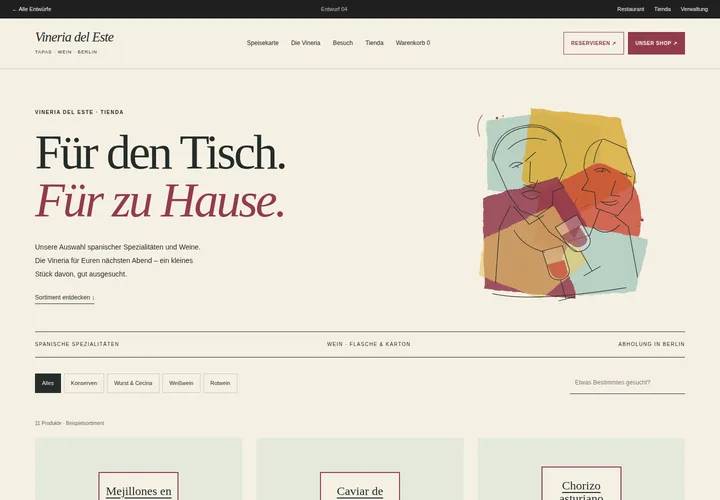
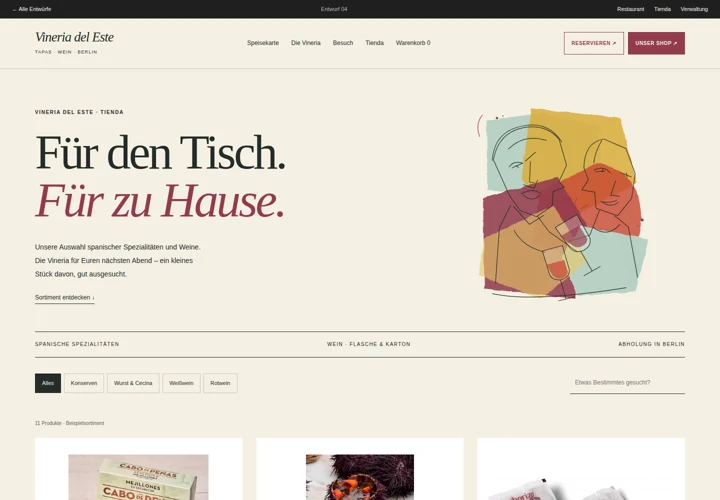
Update model 08 and the actual-product previews in all shop designs [skip ci]

Changed region(s): [[0.0306, 0.87, 0.9778, 1.0], [0.7944, 0.06, 0.825, 0.09]]

diff --git a/site/entwuerfe/v08/shop/index.html b/site/entwuerfe/v08/shop/index.html
@@ -1,3 +1,3 @@
 <!DOCTYPE html>
 
-<html lang="de"><head><meta charset="utf-8"/><meta content="width=device-width,initial-scale=1" name="viewport"/><meta content="noindex,nofollow,noarchive" name="robots"/><meta content="Spanische Konserven, Chorizo, Cecina und Weine. Tienda der Vineria del Este in Berlin. Designvorschau mit Beispielpreisen." name="description"/><meta content="strict-origin-when-cross-origin" name="referrer"/><meta content="Spanische Spezialitäten &amp; Wein · Vineria del Este Tienda" property="og:title"/><meta content="Designvorschau · Restaurant und Tienda · Keine aktive Verkaufsseite" property="og:description"/><title>Spanische Spezialitäten &amp; Wein · Vineria del Este Tienda · Modell 08 · Collage &amp; Papier</title><link href="../../../assets/site.css" rel="stylesheet"/><script>window.VDE={"root": "../", "home": "../index.html", "shop": "index.html", "theme": "", "products": [{"id": "mejillones", "name": "Mejillones en escabeche", "category": "conservas", "brand": "Cabo de Peñas", "description": "Miesmuscheln in Escabeche mit Apfelessig und Olivenöl. Die gezeigte Dose stammt aus Galicien.", "pack": "111 g", "amount": 111, "unit": "g", "price": 1290, "case": 0, "casePrice": 0, "pickup": false, "source": "https://www.agromar.es/tienda/", "note": "WEICHTIERE. Zutaten und Abtropfgewicht sind vor Verkauf vom Etikett zu übernehmen.", "image": "assets/products/mejillones.webp", "imageAlt": "Cabo de Peñas · Mejillones en escabeche · Originalverpackung", "imageSource": "https://www.fetasoller.com/es/mallorca-shop.php/tienda/catalogo/charcuteria_y_queso/marinos/cabo_de_penas_mejillones_cologicos", "imageRights": "review_only_pending_clearance"}, {"id": "oricios", "name": "Caviar de oricios", "category": "conservas", "brand": "Agromar", "description": "Seeigelrogen aus Asturien. Eine besondere kleine Konserve zum Teilen.", "pack": "68 g", "amount": 68, "unit": "g", "price": 2690, "case": 0, "casePrice": 0, "pickup": false, "source": "https://www.agromar.es/producto/caviar-de-oricios-70/", "note": "Vollständige Kennzeichnung, Zutaten und Lagerung vor Verkauf bestätigen.", "image": "assets/products/oricios.webp", "imageAlt": "Agromar · Caviar de oricios · Originaldose", "imageSource": "https://laespanolameats.com/es/conservas-de-pescado/caviar-de-oricios-.html", "imageRights": "review_only_pending_clearance"}, {"id": "chorizo", "name": "Chorizo asturiano extra", "category": "embutidos", "brand": "Embutidos Vallina", "description": "Über Eichenholz geräucherte Schweinewurst. Zum Garen, nicht als verzehrfertiger Aufschnitt.", "pack": "250 g", "amount": 250, "unit": "g", "price": 690, "case": 0, "casePrice": 0, "pickup": true, "source": "https://puxa.es/chorizo-extra-asturiano/35-chorizo-extra-paq-250-g.html", "note": "Gekühlt bei 0–5 °C lagern und vor Verzehr garen. Im Entwurf nur Abholung.", "image": "assets/products/chorizo.webp", "imageAlt": "Embutidos Vallina · Chorizo asturiano extra · Originalverpackung", "imageSource": "https://puxa.es/chorizo-extra-asturiano/35-chorizo-extra-paq-250-g.html", "imageRights": "review_only_pending_clearance"}, {"id": "cecina", "name": "Cecina loncheada", "category": "embutidos", "brand": "Cecinas Pablo", "description": "Luftgetrocknetes Rindfleisch, fein geschnitten und in einer kleinen Portion verpackt.", "pack": "100 g", "amount": 100, "unit": "g", "price": 890, "case": 0, "casePrice": 0, "pickup": true, "source": "https://cecinaspablo.com/producto/loncheado-de-cecina-curada-vacuno-100-gr/", "note": "Im Entwurf nur Abholung; konkrete Lagerung und vollständiges Etikett noch bestätigen.", "image": "assets/products/cecina.webp", "imageAlt": "Cecinas Pablo · Cecina loncheada · Originalverpackung", "imageSource": "https://www.montegomez.com/tienda-online/cecina-pablo/", "imageRights": "review_only_pending_clearance"}, {"id": "bujanda-blanco", "name": "Bujanda Blanco", "year": "2019", "category": "weisswein", "brand": "D.O. Rioja", "description": "Viura. Aus der bestehenden Weinkarte der Vinería.", "pack": "0,75 l", "amount": 750, "unit": "ml", "price": 1290, "case": 6, "casePrice": 7350, "pickup": false, "image": "assets/products/bujanda-blanco.webp", "imageAlt": "Viña Bujanda Viura · Originalflasche", "imageSource": "https://familiamartinezbujanda.com/tienda/vinos/blancos-y-dulces/vina-bujanda-viura/", "imageRights": "review_only_pending_clearance"}, {"id": "blanco-nieva", "name": "Blanco Nieva Sauvignon Blanc", "year": "2019", "category": "weisswein", "brand": "D.O. Rueda", "description": "100 % Sauvignon Blanc. Aus der bestehenden Weinkarte.", "pack": "0,75 l", "amount": 750, "unit": "ml", "price": 1690, "case": 6, "casePrice": 9630, "pickup": false, "image": "assets/products/blanco-nieva.webp", "imageAlt": "Blanco Nieva Sauvignon Blanc · Originalflasche; Jahrgang der Abbildung kann abweichen", "imageSource": "https://martue.com/producto/blanco-nieva-sauvignon-blanc-2025/", "imageRights": "review_only_pending_clearance"}, {"id": "vanidade", "name": "Vanidade", "year": "2019", "category": "weisswein", "brand": "D.O. Rías Baixas", "description": "100 % Albariño. Aus der bestehenden Weinkarte.", "pack": "0,75 l", "amount": 750, "unit": "ml", "price": 1990, "case": 6, "casePrice": 11340, "pickup": false, "image": "assets/products/vanidade.webp", "imageAlt": "Vanidade Albariño · Originalflasche", "imageSource": "https://vinaalmirante.com/en/vinos/vanidade-en/", "imageRights": "review_only_pending_clearance"}, {"id": "egiarte-crianza", "name": "Egiarte Crianza", "year": "2016", "category": "rotwein", "brand": "D.O. Navarra", "description": "Tempranillo, Merlot und Cabernet Sauvignon. 12 Monate Barrique.", "pack": "0,75 l", "amount": 750, "unit": "ml", "price": 1590, "case": 6, "casePrice": 9060, "pickup": false, "image": "assets/products/egiarte-crianza.webp", "imageAlt": "Egiarte Crianza BIO · Produktfoto mit Originalflasche; Jahrgang kann abweichen", "imageSource": "https://gaztaburua.com/product/egiarte-crianza-bio/", "imageRights": "review_only_pending_clearance"}, {"id": "lezaun-tempranillo", "name": "Lezaun Tempranillo", "year": "2019", "category": "rotwein", "brand": "D.O. Navarra", "description": "100 % Tempranillo. Aus der bestehenden Weinkarte.", "pack": "0,75 l", "amount": 750, "unit": "ml", "price": 1390, "case": 6, "casePrice": 7920, "pickup": false, "image": "assets/products/lezaun-tempranillo.webp", "imageAlt": "Lezaun Tempranillo · Produktfoto mit Originalflasche; Jahrgang kann abweichen", "imageSource": "https://gaztaburua.com/product/lezaun-tempranillo/", "imageRights": "review_only_pending_clearance"}, {"id": "terrae-finca-vasallo", "name": "Terrae Finca Vasallo", "year": "2019", "category": "rotwein", "brand": "Bajo Aragón", "description": "100 % Garnacha. Aus der bestehenden Weinkarte.", "pack": "0,75 l", "amount": 750, "unit": "ml", "price": 1490, "case": 6, "casePrice": 8490, "pickup": false, "image": "assets/products/terrae-finca-vasallo.webp", "imageAlt": "Terrae Finca Vasallo · Produktaufnahme des Weinguts", "imageSource": "https://www.bodegastempore.com/en/news/new-gold-medal-for-our-organic-wine-terrae-finca-vasallo-garnacha-100/", "imageRights": "review_only_pending_clearance"}, {"id": "nuestro", "name": "Nuestro", "year": "2018", "category": "rotwein", "brand": "D.O. Ribera del Duero", "description": "100 % Tempranillo. 8 Monate in französischen Eichenfässern.", "pack": "0,75 l", "amount": 750, "unit": "ml", "price": 2490, "case": 6, "casePrice": 14190, "pickup": false, "image": "assets/products/nuestro.webp", "imageAlt": "Nuestro 8 meses · Originalflasche", "imageSource": "https://www.vinetibo.es/products/nuestro-8-meses", "imageRights": "review_only_pending_clearance"}], "mode": "review"};</script><script defer="" src="../../../assets/site.js"></script><link href="../../../assets/polish.css" rel="stylesheet"/><script defer="" src="../../../assets/polish.js"></script><link data-proposal-chrome="" href="../../../assets/proposal-chrome.css" rel="stylesheet"/><link data-product-photos="" href="../../../assets/product-photos.css" rel="stylesheet"/><link href="../../../assets/model08.css" rel="stylesheet"/><script defer="" src="../../../assets/model08.js"></script></head><body class="model08"><div class="proposal-nav"><a href="../../../index.html">← Alle Entwürfe</a><span>Modell 08</span><nav aria-label="Entwurfsansichten"><a href="../index.html">Restaurant</a><a href="index.html">Tienda</a><a href="../../../verwaltung/index.html">Verwaltung</a></nav></div><a class="skip" href="#main">Zum Inhalt</a><header class="header"><div class="wrap nav"><a class="brand" href="../index.html">Vineria del Este<small>Tapas · Wein · Berlin</small></a><nav aria-label="Hauptnavigation" class="navigation" id="navigation"><a href="../index.html#speisekarte">Speisekarte</a><a class="optional" href="../index.html#vineria">Die Vineria</a><a class="optional" href="../index.html#besuch">Besuch</a><a aria-current="page" href="index.html">Tienda</a><a href="../warenkorb/index.html">Warenkorb <span data-cart-count="">0</span></a></nav><div class="nav-actions"><a class="btn outline" href="https://vineriaytapas.de/#tebi-reservations" rel="noopener" target="_blank">Reservieren ↗</a><a class="btn" href="index.html">Unser Shop ↗</a></div><button aria-controls="navigation" aria-expanded="false" class="mobile-menu">Menü</button></div></header><main id="main"><section class="collage-hero shop-hero wrap"><div aria-label="Weine aus unserem Sortiment" class="bottle-stack"><img alt="Viña Bujanda Viura" src="../../../assets/products/bujanda-blanco.webp"/><img alt="Vanidade Albariño" src="../../../assets/products/vanidade.webp"/><img alt="Egiarte Crianza" src="../../../assets/products/egiarte-crianza.webp"/></div><div class="hero-copy"><p class="eyebrow">VINERIA DEL ESTE · TIENDA<br/>PRODUCTOS ESPAÑOLES</p><h1>Für den Tisch.<br/>Für zu Hause.</h1><p>Die Weine, über die wir gern reden. Die kleinen Dosen, die man gemeinsam öffnet. Unsere Auswahl für Euren nächsten Abend.</p><div class="hero-actions"><a class="btn" href="#sortiment">Auswahl entdecken ↓</a><a class="btn outline" href="../index.html">Zum Restaurant ↗</a></div><span class="handnote">Ein kleines Stück Spanien.</span></div><aside class="shop-slip"><div class="slip-paper"><p class="eyebrow">UNSERE AUSWAHL</p><h2>Mitbringen.<br/>Aufmachen.<br/>Zusammen.</h2><p>Weine, Konserven und spanische Spezialitäten. Flasche oder Karton: Ihr habt die Wahl.</p><div class="receipt-tag">ABHOLEN IN DER VINERIA<br/>VERSAND IN DEUTSCHLAND</div><p>Sortiment und Preise sind Beispiele. Noch kein Verkauf.</p></div></aside></section><div class="wrap strip"><span>Spanische Spezialitäten</span><span>Wein · Flasche &amp; Karton</span><span class="optional">Abholung in Berlin</span></div><section class="wrap" id="sortiment"><div class="toolbar"><div aria-label="Produktkategorie" class="filters"><button aria-pressed="true" data-filter="all">Alles</button><button aria-pressed="false" data-filter="conservas">Konserven</button><button aria-pressed="false" data-filter="embutidos">Wurst &amp; Cecina</button><button aria-pressed="false" data-filter="weisswein">Weißwein</button><button aria-pressed="false" data-filter="rotwein">Rotwein</button></div><input aria-label="Produkt suchen" class="search" data-search="" placeholder="Etwas Bestimmtes gesucht?" type="search"/></div><p class="note" data-results="">11 Produkte · Beispielsortiment</p><div class="products"><article class="product-card" data-category="conservas" data-product="mejillones"><a aria-label="Mejillones en escabeche" href="mejillones/index.html"><div class="product-art real-product-photo photo-tin"><img alt="Cabo de Peñas · Mejillones en escabeche · Originalverpackung" data-real-product="mejillones" decoding="async" height="747" loading="eager" src="../../../assets/products/mejillones.webp" width="747"/></div></a><div class="eyebrow">Cabo de Peñas · 111 g</div><h2><a href="mejillones/index.html">Mejillones en escabeche</a></h2><p>Miesmuscheln in Escabeche mit Apfelessig und Olivenöl. Die gezeigte Dose stammt aus Galicien.</p><div class="buy-row"><span class="price" data-price="">12,90 €</span><span class="note">Beispielpreis</span></div><div class="unit" data-unit="">116,22 €/kg · zzgl. Versand</div><select aria-label="Format für Mejillones en escabeche" data-variant=""><option value="single">111 g · 12,90 €</option></select><button class="btn" data-add="mejillones">In den Warenkorb +</button></article><article class="product-card" data-category="conservas" data-product="oricios"><a aria-label="Caviar de oricios" href="oricios/index.html"><div class="product-art real-product-photo photo-tin"><img alt="Agromar · Caviar de oricios · Originaldose" data-real-product="oricios" decoding="async" height="1034" loading="eager" src="../../../assets/products/oricios.webp" width="800"/></div></a><div class="eyebrow">Agromar · 68 g</div><h2><a href="oricios/index.html">Caviar de oricios</a></h2><p>Seeigelrogen aus Asturien. Eine besondere kleine Konserve zum Teilen.</p><div class="buy-row"><span class="price" data-price="">26,90 €</span><span class="note">Beispielpreis</span></div><div class="unit" data-unit="">395,59 €/kg · zzgl. Versand</div><select aria-label="Format für Caviar de oricios" data-variant=""><option value="single">68 g · 26,90 €</option></select><button class="btn" data-add="oricios">In den Warenkorb +</button></article><article class="product-card" data-category="embutidos" data-product="chorizo"><a aria-label="Chorizo asturiano extra" href="chorizo/index.html"><div class="product-art real-product-photo photo-pack"><img alt="Embutidos Vallina · Chorizo asturiano extra · Originalverpackung" data-real-product="chorizo" decoding="async" height="293" loading="eager" src="../../../assets/products/chorizo.webp" width="560"/></div></a><div class="eyebrow">Embutidos Vallina · 250 g</div><h2><a href="chorizo/index.html">Chorizo asturiano extra</a></h2><p>Über Eichenholz geräucherte Schweinewurst. Zum Garen, nicht als verzehrfertiger Aufschnitt.</p><div class="buy-row"><span class="price" data-price="">6,90 €</span><span class="note">Nur Abholung</span></div><div class="unit" data-unit="">27,60 €/kg · zzgl. Versand</div><select aria-label="Format für Chorizo asturiano extra" data-variant=""><option value="single">250 g · 6,90 €</option></select><button class="btn" data-add="chorizo">In den Warenkorb +</button></article><article class="product-card" data-category="embutidos" data-product="cecina"><a aria-label="Cecina loncheada" href="cecina/index.html"><div class="product-art real-product-photo photo-pack"><img alt="Cecinas Pablo · Cecina loncheada · Originalverpackung" data-real-product="cecina" decoding="async" height="443" loading="eager" src="../../../assets/products/cecina.webp" width="600"/></div></a><div class="eyebrow">Cecinas Pablo · 100 g</div><h2><a href="cecina/index.html">Cecina loncheada</a></h2><p>Luftgetrocknetes Rindfleisch, fein geschnitten und in einer kleinen Portion verpackt.</p><div class="buy-row"><span class="price" data-price="">8,90 €</span><span class="note">Nur Abholung</span></div><div class="unit" data-unit="">89,00 €/kg · zzgl. Versand</div><select aria-label="Format für Cecina loncheada" data-variant=""><option value="single">100 g · 8,90 €</option></select><button class="btn" data-add="cecina">In den Warenkorb +</button></article><article class="product-card" data-category="weisswein" data-product="bujanda-blanco"><a aria-label="Bujanda Blanco" href="bujanda-blanco/index.html"><div class="product-art real-product-photo photo-wine"><img alt="Viña Bujanda Viura · Originalflasche" data-real-product="bujanda-blanco" decoding="async" height="584" loading="eager" src="../../../assets/products/bujanda-blanco.webp" width="158"/></div></a><div class="eyebrow">D.O. Rioja · 0,75 l</div><h2><a href="bujanda-blanco/index.html">Bujanda Blanco</a></h2><p>Viura. Aus der bestehenden Weinkarte der Vinería.</p><div class="buy-row"><span class="price" data-price="">12,90 €</span><span class="note">Beispielpreis</span></div><div class="unit" data-unit="">17,20 €/l · zzgl. Versand</div><select aria-label="Format für Bujanda Blanco" data-variant=""><option value="single">0,75 l · 12,90 €</option><option value="case">6 × 0,75 l · 73,50 €</option></select><button class="btn" data-add="bujanda-blanco">In den Warenkorb +</button></article><article class="product-card" data-category="weisswein" data-product="blanco-nieva"><a aria-label="Blanco Nieva Sauvignon Blanc" href="blanco-nieva/index.html"><div class="product-art real-product-photo photo-wine"><img alt="Blanco Nieva Sauvignon Blanc · Originalflasche; Jahrgang der Abbildung kann abweichen" data-real-product="blanco-nieva" decoding="async" height="1100" loading="eager" src="../../../assets/products/blanco-nieva.webp" width="261"/></div></a><div class="eyebrow">D.O. Rueda · 0,75 l</div><h2><a href="blanco-nieva/index.html">Blanco Nieva Sauvignon Blanc</a></h2><p>100 % Sauvignon Blanc. Aus der bestehenden Weinkarte.</p><div class="buy-row"><span class="price" data-price="">16,90 €</span><span class="note">Beispielpreis</span></div><div class="unit" data-unit="">22,53 €/l · zzgl. Versand</div><select aria-label="Format für Blanco Nieva Sauvignon Blanc" data-variant=""><option value="single">0,75 l · 16,90 €</option><option value="case">6 × 0,75 l · 96,30 €</option></select><button class="btn" data-add="blanco-nieva">In den Warenkorb +</button></article><article class="product-card" data-category="weisswein" data-product="vanidade"><a aria-label="Vanidade" href="vanidade/index.html"><div class="product-art real-product-photo photo-wine"><img alt="Vanidade Albariño · Originalflasche" data-real-product="vanidade" decoding="async" height="595" loading="eager" src="../../../assets/products/vanidade.webp" width="189"/></div></a><div class="eyebrow">D.O. Rías Baixas · 0,75 l</div><h2><a href="vanidade/index.html">Vanidade</a></h2><p>100 % Albariño. Aus der bestehenden Weinkarte.</p><div class="buy-row"><span class="price" data-price="">19,90 €</span><span class="note">Beispielpreis</span></div><div class="unit" data-unit="">26,53 €/l · zzgl. Versand</div><select aria-label="Format für Vanidade" data-variant=""><option value="single">0,75 l · 19,90 €</option><option value="case">6 × 0,75 l · 113,40 €</option></select><button class="btn" data-add="vanidade">In den Warenkorb +</button></article><article class="product-card" data-category="rotwein" data-product="egiarte-crianza"><a aria-label="Egiarte Crianza" href="egiarte-crianza/index.html"><div class="product-art real-product-photo photo-wine"><img alt="Egiarte Crianza BIO · Produktfoto mit Originalflasche; Jahrgang kann abweichen" data-real-product="egiarte-crianza" decoding="async" height="384" loading="eager" src="../../../assets/products/egiarte-crianza.webp" width="600"/></div></a><div class="eyebrow">D.O. Navarra · 0,75 l</div><h2><a href="egiarte-crianza/index.html">Egiarte Crianza</a></h2><p>Tempranillo, Merlot und Cabernet Sauvignon. 12 Monate Barrique.</p><div class="buy-row"><span class="price" data-price="">15,90 €</span><span class="note">Beispielpreis</span></div><div class="unit" data-unit="">21,20 €/l · zzgl. Versand</div><select aria-label="Format für Egiarte Crianza" data-variant=""><option value="single">0,75 l · 15,90 €</option><option value="case">6 × 0,75 l · 90,60 €</option></select><button class="btn" data-add="egiarte-crianza">In den Warenkorb +</button></article><article class="product-card" data-category="rotwein" data-product="lezaun-tempranillo"><a aria-label="Lezaun Tempranillo" href="lezaun-tempranillo/index.html"><div class="product-art real-product-photo photo-wine"><img alt="Lezaun Tempranillo · Produktfoto mit Originalflasche; Jahrgang kann abweichen" data-real-product="lezaun-tempranillo" decoding="async" height="384" loading="eager" src="../../../assets/products/lezaun-tempranillo.webp" width="600"/></div></a><div class="eyebrow">D.O. Navarra · 0,75 l</div><h2><a href="lezaun-tempranillo/index.html">Lezaun Tempranillo</a></h2><p>100 % Tempranillo. Aus der bestehenden Weinkarte.</p><div class="buy-row"><span class="price" data-price="">13,90 €</span><span class="note">Beispielpreis</span></div><div class="unit" data-unit="">18,53 €/l · zzgl. Versand</div><select aria-label="Format für Lezaun Tempranillo" data-variant=""><option value="single">0,75 l · 13,90 €</option><option value="case">6 × 0,75 l · 79,20 €</option></select><button class="btn" data-add="lezaun-tempranillo">In den Warenkorb +</button></article><article class="product-card" data-category="rotwein" data-product="terrae-finca-vasallo"><a aria-label="Terrae Finca Vasallo" href="terrae-finca-vasallo/index.html"><div class="product-art real-product-photo photo-wine"><img alt="Terrae Finca Vasallo · Produktaufnahme des Weinguts" data-real-product="terrae-finca-vasallo" decoding="async" height="626" loading="eager" src="../../../assets/products/terrae-finca-vasallo.webp" width="626"/></div></a><div class="eyebrow">Bajo Aragón · 0,75 l</div><h2><a href="terrae-finca-vasallo/index.html">Terrae Finca Vasallo</a></h2><p>100 % Garnacha. Aus der bestehenden Weinkarte.</p><div class="buy-row"><span class="price" data-price="">14,90 €</span><span class="note">Beispielpreis</span></div><div class="unit" data-unit="">19,87 €/l · zzgl. Versand</div><select aria-label="Format für Terrae Finca Vasallo" data-variant=""><option value="single">0,75 l · 14,90 €</option><option value="case">6 × 0,75 l · 84,90 €</option></select><button class="btn" data-add="terrae-finca-vasallo">In den Warenkorb +</button></article><article class="product-card" data-category="rotwein" data-product="nuestro"><a aria-label="Nuestro" href="nuestro/index.html"><div class="product-art real-product-photo photo-wine"><img alt="Nuestro 8 meses · Originalflasche" data-real-product="nuestro" decoding="async" height="480" loading="eager" src="../../../assets/products/nuestro.webp" width="135"/></div></a><div class="eyebrow">D.O. Ribera del Duero · 0,75 l</div><h2><a href="nuestro/index.html">Nuestro</a></h2><p>100 % Tempranillo. 8 Monate in französischen Eichenfässern.</p><div class="buy-row"><span class="price" data-price="">24,90 €</span><span class="note">Beispielpreis</span></div><div class="unit" data-unit="">33,20 €/l · zzgl. Versand</div><select aria-label="Format für Nuestro" data-variant=""><option value="single">0,75 l · 24,90 €</option><option value="case">6 × 0,75 l · 141,90 €</option></select><button class="btn" data-add="nuestro">In den Warenkorb +</button></article></div><noscript><p class="nojs">Alle Produkte sind sichtbar. Für den Testwarenkorb bitte JavaScript aktivieren.</p></noscript><p class="notice">Designvorschau: alle Preise, Jahrgänge und Kartongrößen sind Beispiele. Produktgrafiken sind keine Fotos der verkauften Packungen. Produktkennzeichnung, Lagerung und Verfügbarkeit müssen vor Freigabe vollständig bestätigt werden.</p></section></main><footer class="footer"><div class="wrap"><div class="footer-top"><div><div class="footer-word" lang="es">Hasta pronto.</div><p class="note">Vineria del Este · Bänschstraße 41 · Berlin</p></div><nav aria-label="Service" class="footer-links"><a href="index.html">Unser Shop</a><a href="../service/index.html#versand">Versand &amp; Abholung</a><a href="../service/index.html#widerruf">Widerruf &amp; Retouren</a><a href="../service/index.html#agb">AGB</a><a href="../service/index.html#datenschutz">Datenschutz</a><a href="../service/index.html#impressum">Impressum</a><a href="https://www.instagram.com/vineria.del.este/" rel="noopener" target="_blank">Instagram ↗</a><a href="../../../verwaltung/index.html">Verwaltung</a></nav></div><div class="footer-bottom"><span>Modell 08 · Collage &amp; Papier · Designvorschau</span><a href="../../../index.html#herkunft">Bildnachweise &amp; Projektstand</a></div></div></footer><div class="toast" hidden="" id="toast" role="status"></div></body></html>
+<html lang="de"><head><meta charset="utf-8"/><meta content="width=device-width,initial-scale=1" name="viewport"/><meta content="noindex,nofollow,noarchive" name="robots"/><meta content="Spanische Konserven, Chorizo, Cecina und Weine. Tienda der Vineria del Este in Berlin. Designvorschau mit Beispielpreisen." name="description"/><meta content="strict-origin-when-cross-origin" name="referrer"/><meta content="Spanische Spezialitäten &amp; Wein · Vineria del Este Tienda" property="og:title"/><meta content="Designvorschau · Restaurant und Tienda · Keine aktive Verkaufsseite" property="og:description"/><title>Spanische Spezialitäten &amp; Wein · Vineria del Este Tienda · Modell 08 · Collage &amp; Papier</title><link href="../../../assets/site.css" rel="stylesheet"/><script>window.VDE={"root": "../", "home": "../index.html", "shop": "index.html", "theme": "", "products": [{"id": "mejillones", "name": "Mejillones en escabeche", "category": "conservas", "brand": "Cabo de Peñas", "description": "Miesmuscheln in Escabeche mit Apfelessig und Olivenöl. Die gezeigte Dose stammt aus Galicien.", "pack": "111 g", "amount": 111, "unit": "g", "price": 1290, "case": 0, "casePrice": 0, "pickup": false, "source": "https://www.agromar.es/tienda/", "note": "WEICHTIERE. Zutaten und Abtropfgewicht sind vor Verkauf vom Etikett zu übernehmen.", "image": "assets/products/mejillones.webp", "imageAlt": "Cabo de Peñas · Mejillones en escabeche · Originalverpackung", "imageSource": "https://www.fetasoller.com/es/mallorca-shop.php/tienda/catalogo/charcuteria_y_queso/marinos/cabo_de_penas_mejillones_cologicos", "imageRights": "review_only_pending_clearance"}, {"id": "oricios", "name": "Caviar de oricios", "category": "conservas", "brand": "Agromar", "description": "Seeigelrogen aus Asturien. Eine besondere kleine Konserve zum Teilen.", "pack": "68 g", "amount": 68, "unit": "g", "price": 2690, "case": 0, "casePrice": 0, "pickup": false, "source": "https://www.agromar.es/producto/caviar-de-oricios-70/", "note": "Vollständige Kennzeichnung, Zutaten und Lagerung vor Verkauf bestätigen.", "image": "assets/products/oricios.webp", "imageAlt": "Agromar · Caviar de oricios · Originaldose", "imageSource": "https://laespanolameats.com/es/conservas-de-pescado/caviar-de-oricios-.html", "imageRights": "review_only_pending_clearance"}, {"id": "chorizo", "name": "Chorizo asturiano extra", "category": "embutidos", "brand": "Embutidos Vallina", "description": "Über Eichenholz geräucherte Schweinewurst. Zum Garen, nicht als verzehrfertiger Aufschnitt.", "pack": "250 g", "amount": 250, "unit": "g", "price": 690, "case": 0, "casePrice": 0, "pickup": true, "source": "https://puxa.es/chorizo-extra-asturiano/35-chorizo-extra-paq-250-g.html", "note": "Gekühlt bei 0–5 °C lagern und vor Verzehr garen. Im Entwurf nur Abholung.", "image": "assets/products/chorizo.webp", "imageAlt": "Embutidos Vallina · Chorizo asturiano extra · Originalverpackung", "imageSource": "https://puxa.es/chorizo-extra-asturiano/35-chorizo-extra-paq-250-g.html", "imageRights": "review_only_pending_clearance"}, {"id": "cecina", "name": "Cecina loncheada", "category": "embutidos", "brand": "Cecinas Pablo", "description": "Luftgetrocknetes Rindfleisch, fein geschnitten und in einer kleinen Portion verpackt.", "pack": "100 g", "amount": 100, "unit": "g", "price": 890, "case": 0, "casePrice": 0, "pickup": true, "source": "https://cecinaspablo.com/producto/loncheado-de-cecina-curada-vacuno-100-gr/", "note": "Im Entwurf nur Abholung; konkrete Lagerung und vollständiges Etikett noch bestätigen.", "image": "assets/products/cecina.webp", "imageAlt": "Cecinas Pablo · Cecina loncheada · Originalverpackung", "imageSource": "https://www.montegomez.com/tienda-online/cecina-pablo/", "imageRights": "review_only_pending_clearance"}, {"id": "bujanda-blanco", "name": "Bujanda Blanco", "year": "2019", "category": "weisswein", "brand": "D.O. Rioja", "description": "Viura. Aus der bestehenden Weinkarte der Vinería.", "pack": "0,75 l", "amount": 750, "unit": "ml", "price": 1290, "case": 6, "casePrice": 7350, "pickup": false, "image": "assets/products/bujanda-blanco.webp", "imageAlt": "Viña Bujanda Viura · Originalflasche", "imageSource": "https://familiamartinezbujanda.com/tienda/vinos/blancos-y-dulces/vina-bujanda-viura/", "imageRights": "review_only_pending_clearance"}, {"id": "blanco-nieva", "name": "Blanco Nieva Sauvignon Blanc", "year": "2019", "category": "weisswein", "brand": "D.O. Rueda", "description": "100 % Sauvignon Blanc. Aus der bestehenden Weinkarte.", "pack": "0,75 l", "amount": 750, "unit": "ml", "price": 1690, "case": 6, "casePrice": 9630, "pickup": false, "image": "assets/products/blanco-nieva.webp", "imageAlt": "Blanco Nieva Sauvignon Blanc · Originalflasche; Jahrgang der Abbildung kann abweichen", "imageSource": "https://martue.com/producto/blanco-nieva-sauvignon-blanc-2025/", "imageRights": "review_only_pending_clearance"}, {"id": "vanidade", "name": "Vanidade", "year": "2019", "category": "weisswein", "brand": "D.O. Rías Baixas", "description": "100 % Albariño. Aus der bestehenden Weinkarte.", "pack": "0,75 l", "amount": 750, "unit": "ml", "price": 1990, "case": 6, "casePrice": 11340, "pickup": false, "image": "assets/products/vanidade.webp", "imageAlt": "Vanidade Albariño · Originalflasche", "imageSource": "https://vinaalmirante.com/en/vinos/vanidade-en/", "imageRights": "review_only_pending_clearance"}, {"id": "egiarte-crianza", "name": "Egiarte Crianza", "year": "2016", "category": "rotwein", "brand": "D.O. Navarra", "description": "Tempranillo, Merlot und Cabernet Sauvignon. 12 Monate Barrique.", "pack": "0,75 l", "amount": 750, "unit": "ml", "price": 1590, "case": 6, "casePrice": 9060, "pickup": false, "image": "assets/products/egiarte-crianza.webp", "imageAlt": "Egiarte Crianza BIO · Produktfoto mit Originalflasche; Jahrgang kann abweichen", "imageSource": "https://gaztaburua.com/product/egiarte-crianza-bio/", "imageRights": "review_only_pending_clearance"}, {"id": "lezaun-tempranillo", "name": "Lezaun Tempranillo", "year": "2019", "category": "rotwein", "brand": "D.O. Navarra", "description": "100 % Tempranillo. Aus der bestehenden Weinkarte.", "pack": "0,75 l", "amount": 750, "unit": "ml", "price": 1390, "case": 6, "casePrice": 7920, "pickup": false, "image": "assets/products/lezaun-tempranillo.webp", "imageAlt": "Lezaun Tempranillo · Produktfoto mit Originalflasche; Jahrgang kann abweichen", "imageSource": "https://gaztaburua.com/product/lezaun-tempranillo/", "imageRights": "review_only_pending_clearance"}, {"id": "terrae-finca-vasallo", "name": "Terrae Finca Vasallo", "year": "2019", "category": "rotwein", "brand": "Bajo Aragón", "description": "100 % Garnacha. Aus der bestehenden Weinkarte.", "pack": "0,75 l", "amount": 750, "unit": "ml", "price": 1490, "case": 6, "casePrice": 8490, "pickup": false, "image": "assets/products/terrae-finca-vasallo.webp", "imageAlt": "Terrae Finca Vasallo · Produktaufnahme des Weinguts", "imageSource": "https://www.bodegastempore.com/en/news/new-gold-medal-for-our-organic-wine-terrae-finca-vasallo-garnacha-100/", "imageRights": "review_only_pending_clearance"}, {"id": "nuestro", "name": "Nuestro", "year": "2018", "category": "rotwein", "brand": "D.O. Ribera del Duero", "description": "100 % Tempranillo. 8 Monate in französischen Eichenfässern.", "pack": "0,75 l", "amount": 750, "unit": "ml", "price": 2490, "case": 6, "casePrice": 14190, "pickup": false, "image": "assets/products/nuestro.webp", "imageAlt": "Nuestro 8 meses · Originalflasche", "imageSource": "https://www.vinetibo.es/products/nuestro-8-meses", "imageRights": "review_only_pending_clearance"}], "mode": "review"};</script><script defer="" src="../../../assets/site.js"></script><link href="../../../assets/polish.css" rel="stylesheet"/><script defer="" src="../../../assets/polish.js"></script><link data-proposal-chrome="" href="../../../assets/proposal-chrome.css" rel="stylesheet"/><link data-product-photos="" href="../../../assets/product-photos.css" rel="stylesheet"/><link href="../../../assets/model08.css" rel="stylesheet"/><script defer="" src="../../../assets/model08.js"></script></head><body class="model08"><div class="proposal-nav"><a href="../../../index.html">← Alle Entwürfe</a><span>Modell 08</span><nav aria-label="Entwurfsansichten"><a href="../index.html">Restaurant</a><a href="index.html">Tienda</a><a href="../../../verwaltung/index.html">Verwaltung</a></nav></div><a class="skip" href="#main">Zum Inhalt</a><header class="header"><div class="wrap nav"><a class="brand" href="../index.html">Vineria del Este<small>Tapas · Wein · Berlin</small></a><nav aria-label="Hauptnavigation" class="navigation" id="navigation"><a href="../index.html#speisekarte">Speisekarte</a><a class="optional" href="../index.html#vineria">Die Vineria</a><a class="optional" href="../index.html#besuch">Besuch</a><a aria-current="page" href="index.html">Tienda</a><a href="../warenkorb/index.html">Warenkorb <span data-cart-count="">0</span></a></nav><div class="nav-actions"><a class="btn outline" href="https://vineriaytapas.de/#tebi-reservations" rel="noopener" target="_blank">Reservieren ↗</a><a class="btn" href="index.html">Unser Shop ↗</a></div><button aria-controls="navigation" aria-expanded="false" class="mobile-menu">Menü</button></div></header><main id="main"><section class="collage-hero shop-hero wrap"><div aria-label="Weine aus unserem Sortiment" class="bottle-stack"><img alt="Viña Bujanda Viura" src="../../../assets/products/bujanda-blanco.webp"/><img alt="Vanidade Albariño" src="../../../assets/products/vanidade.webp"/><img alt="Blanco Nieva Sauvignon Blanc" src="../../../assets/products/blanco-nieva.webp"/></div><div class="hero-copy"><p class="eyebrow">VINERIA DEL ESTE · TIENDA<br/>PRODUCTOS ESPAÑOLES</p><h1>Für den Tisch.<br/>Für zu Hause.</h1><p>Die Weine, über die wir gern reden. Die kleinen Dosen, die man gemeinsam öffnet. Unsere Auswahl für Euren nächsten Abend.</p><div class="hero-actions"><a class="btn" href="#sortiment">Auswahl entdecken ↓</a><a class="btn outline" href="../index.html">Zum Restaurant ↗</a></div><span class="handnote">Ein kleines Stück Spanien.</span></div><aside class="shop-slip"><div class="slip-paper"><p class="eyebrow">UNSERE AUSWAHL</p><h2>Mitbringen.<br/>Aufmachen.<br/>Zusammen.</h2><p>Weine, Konserven und spanische Spezialitäten. Flasche oder Karton: Ihr habt die Wahl.</p><div class="receipt-tag">ABHOLEN IN DER VINERIA<br/>VERSAND IN DEUTSCHLAND</div><p>Sortiment und Preise sind Beispiele. Noch kein Verkauf.</p></div></aside></section><div class="wrap strip"><span>Spanische Spezialitäten</span><span>Wein · Flasche &amp; Karton</span><span class="optional">Abholung in Berlin</span></div><section class="wrap" id="sortiment"><div class="toolbar"><div aria-label="Produktkategorie" class="filters"><button aria-pressed="true" data-filter="all">Alles</button><button aria-pressed="false" data-filter="conservas">Konserven</button><button aria-pressed="false" data-filter="embutidos">Wurst &amp; Cecina</button><button aria-pressed="false" data-filter="weisswein">Weißwein</button><button aria-pressed="false" data-filter="rotwein">Rotwein</button></div><input aria-label="Produkt suchen" class="search" data-search="" placeholder="Etwas Bestimmtes gesucht?" type="search"/></div><p class="note" data-results="">11 Produkte · Beispielsortiment</p><div class="products"><article class="product-card" data-category="conservas" data-product="mejillones"><a aria-label="Mejillones en escabeche" href="mejillones/index.html"><div class="product-art real-product-photo photo-tin"><img alt="Cabo de Peñas · Mejillones en escabeche · Originalverpackung" data-real-product="mejillones" decoding="async" height="747" loading="eager" src="../../../assets/products/mejillones.webp" width="747"/></div></a><div class="eyebrow">Cabo de Peñas · 111 g</div><h2><a href="mejillones/index.html">Mejillones en escabeche</a></h2><p>Miesmuscheln in Escabeche mit Apfelessig und Olivenöl. Die gezeigte Dose stammt aus Galicien.</p><div class="buy-row"><span class="price" data-price="">12,90 €</span><span class="note">Beispielpreis</span></div><div class="unit" data-unit="">116,22 €/kg · zzgl. Versand</div><select aria-label="Format für Mejillones en escabeche" data-variant=""><option value="single">111 g · 12,90 €</option></select><button class="btn" data-add="mejillones">In den Warenkorb +</button></article><article class="product-card" data-category="conservas" data-product="oricios"><a aria-label="Caviar de oricios" href="oricios/index.html"><div class="product-art real-product-photo photo-tin"><img alt="Agromar · Caviar de oricios · Originaldose" data-real-product="oricios" decoding="async" height="1034" loading="eager" src="../../../assets/products/oricios.webp" width="800"/></div></a><div class="eyebrow">Agromar · 68 g</div><h2><a href="oricios/index.html">Caviar de oricios</a></h2><p>Seeigelrogen aus Asturien. Eine besondere kleine Konserve zum Teilen.</p><div class="buy-row"><span class="price" data-price="">26,90 €</span><span class="note">Beispielpreis</span></div><div class="unit" data-unit="">395,59 €/kg · zzgl. Versand</div><select aria-label="Format für Caviar de oricios" data-variant=""><option value="single">68 g · 26,90 €</option></select><button class="btn" data-add="oricios">In den Warenkorb +</button></article><article class="product-card" data-category="embutidos" data-product="chorizo"><a aria-label="Chorizo asturiano extra" href="chorizo/index.html"><div class="product-art real-product-photo photo-pack"><img alt="Embutidos Vallina · Chorizo asturiano extra · Originalverpackung" data-real-product="chorizo" decoding="async" height="293" loading="eager" src="../../../assets/products/chorizo.webp" width="560"/></div></a><div class="eyebrow">Embutidos Vallina · 250 g</div><h2><a href="chorizo/index.html">Chorizo asturiano extra</a></h2><p>Über Eichenholz geräucherte Schweinewurst. Zum Garen, nicht als verzehrfertiger Aufschnitt.</p><div class="buy-row"><span class="price" data-price="">6,90 €</span><span class="note">Nur Abholung</span></div><div class="unit" data-unit="">27,60 €/kg · zzgl. Versand</div><select aria-label="Format für Chorizo asturiano extra" data-variant=""><option value="single">250 g · 6,90 €</option></select><button class="btn" data-add="chorizo">In den Warenkorb +</button></article><article class="product-card" data-category="embutidos" data-product="cecina"><a aria-label="Cecina loncheada" href="cecina/index.html"><div class="product-art real-product-photo photo-pack"><img alt="Cecinas Pablo · Cecina loncheada · Originalverpackung" data-real-product="cecina" decoding="async" height="443" loading="eager" src="../../../assets/products/cecina.webp" width="600"/></div></a><div class="eyebrow">Cecinas Pablo · 100 g</div><h2><a href="cecina/index.html">Cecina loncheada</a></h2><p>Luftgetrocknetes Rindfleisch, fein geschnitten und in einer kleinen Portion verpackt.</p><div class="buy-row"><span class="price" data-price="">8,90 €</span><span class="note">Nur Abholung</span></div><div class="unit" data-unit="">89,00 €/kg · zzgl. Versand</div><select aria-label="Format für Cecina loncheada" data-variant=""><option value="single">100 g · 8,90 €</option></select><button class="btn" data-add="cecina">In den Warenkorb +</button></article><article class="product-card" data-category="weisswein" data-product="bujanda-blanco"><a aria-label="Bujanda Blanco" href="bujanda-blanco/index.html"><div class="product-art real-product-photo photo-wine"><img alt="Viña Bujanda Viura · Originalflasche" data-real-product="bujanda-blanco" decoding="async" height="584" loading="eager" src="../../../assets/products/bujanda-blanco.webp" width="158"/></div></a><div class="eyebrow">D.O. Rioja · 0,75 l</div><h2><a href="bujanda-blanco/index.html">Bujanda Blanco</a></h2><p>Viura. Aus der bestehenden Weinkarte der Vinería.</p><div class="buy-row"><span class="price" data-price="">12,90 €</span><span class="note">Beispielpreis</span></div><div class="unit" data-unit="">17,20 €/l · zzgl. Versand</div><select aria-label="Format für Bujanda Blanco" data-variant=""><option value="single">0,75 l · 12,90 €</option><option value="case">6 × 0,75 l · 73,50 €</option></select><button class="btn" data-add="bujanda-blanco">In den Warenkorb +</button></article><article class="product-card" data-category="weisswein" data-product="blanco-nieva"><a aria-label="Blanco Nieva Sauvignon Blanc" href="blanco-nieva/index.html"><div class="product-art real-product-photo photo-wine"><img alt="Blanco Nieva Sauvignon Blanc · Originalflasche; Jahrgang der Abbildung kann abweichen" data-real-product="blanco-nieva" decoding="async" height="1100" loading="eager" src="../../../assets/products/blanco-nieva.webp" width="261"/></div></a><div class="eyebrow">D.O. Rueda · 0,75 l</div><h2><a href="blanco-nieva/index.html">Blanco Nieva Sauvignon Blanc</a></h2><p>100 % Sauvignon Blanc. Aus der bestehenden Weinkarte.</p><div class="buy-row"><span class="price" data-price="">16,90 €</span><span class="note">Beispielpreis</span></div><div class="unit" data-unit="">22,53 €/l · zzgl. Versand</div><select aria-label="Format für Blanco Nieva Sauvignon Blanc" data-variant=""><option value="single">0,75 l · 16,90 €</option><option value="case">6 × 0,75 l · 96,30 €</option></select><button class="btn" data-add="blanco-nieva">In den Warenkorb +</button></article><article class="product-card" data-category="weisswein" data-product="vanidade"><a aria-label="Vanidade" href="vanidade/index.html"><div class="product-art real-product-photo photo-wine"><img alt="Vanidade Albariño · Originalflasche" data-real-product="vanidade" decoding="async" height="595" loading="eager" src="../../../assets/products/vanidade.webp" width="189"/></div></a><div class="eyebrow">D.O. Rías Baixas · 0,75 l</div><h2><a href="vanidade/index.html">Vanidade</a></h2><p>100 % Albariño. Aus der bestehenden Weinkarte.</p><div class="buy-row"><span class="price" data-price="">19,90 €</span><span class="note">Beispielpreis</span></div><div class="unit" data-unit="">26,53 €/l · zzgl. Versand</div><select aria-label="Format für Vanidade" data-variant=""><option value="single">0,75 l · 19,90 €</option><option value="case">6 × 0,75 l · 113,40 €</option></select><button class="btn" data-add="vanidade">In den Warenkorb +</button></article><article class="product-card" data-category="rotwein" data-product="egiarte-crianza"><a aria-label="Egiarte Crianza" href="egiarte-crianza/index.html"><div class="product-art real-product-photo photo-wine"><img alt="Egiarte Crianza BIO · Produktfoto mit Originalflasche; Jahrgang kann abweichen" data-real-product="egiarte-crianza" decoding="async" height="384" loading="eager" src="../../../assets/products/egiarte-crianza.webp" width="600"/></div></a><div class="eyebrow">D.O. Navarra · 0,75 l</div><h2><a href="egiarte-crianza/index.html">Egiarte Crianza</a></h2><p>Tempranillo, Merlot und Cabernet Sauvignon. 12 Monate Barrique.</p><div class="buy-row"><span class="price" data-price="">15,90 €</span><span class="note">Beispielpreis</span></div><div class="unit" data-unit="">21,20 €/l · zzgl. Versand</div><select aria-label="Format für Egiarte Crianza" data-variant=""><option value="single">0,75 l · 15,90 €</option><option value="case">6 × 0,75 l · 90,60 €</option></select><button class="btn" data-add="egiarte-crianza">In den Warenkorb +</button></article><article class="product-card" data-category="rotwein" data-product="lezaun-tempranillo"><a aria-label="Lezaun Tempranillo" href="lezaun-tempranillo/index.html"><div class="product-art real-product-photo photo-wine"><img alt="Lezaun Tempranillo · Produktfoto mit Originalflasche; Jahrgang kann abweichen" data-real-product="lezaun-tempranillo" decoding="async" height="384" loading="eager" src="../../../assets/products/lezaun-tempranillo.webp" width="600"/></div></a><div class="eyebrow">D.O. Navarra · 0,75 l</div><h2><a href="lezaun-tempranillo/index.html">Lezaun Tempranillo</a></h2><p>100 % Tempranillo. Aus der bestehenden Weinkarte.</p><div class="buy-row"><span class="price" data-price="">13,90 €</span><span class="note">Beispielpreis</span></div><div class="unit" data-unit="">18,53 €/l · zzgl. Versand</div><select aria-label="Format für Lezaun Tempranillo" data-variant=""><option value="single">0,75 l · 13,90 €</option><option value="case">6 × 0,75 l · 79,20 €</option></select><button class="btn" data-add="lezaun-tempranillo">In den Warenkorb +</button></article><article class="product-card" data-category="rotwein" data-product="terrae-finca-vasallo"><a aria-label="Terrae Finca Vasallo" href="terrae-finca-vasallo/index.html"><div class="product-art real-product-photo photo-wine"><img alt="Terrae Finca Vasallo · Produktaufnahme des Weinguts" data-real-product="terrae-finca-vasallo" decoding="async" height="626" loading="eager" src="../../../assets/products/terrae-finca-vasallo.webp" width="626"/></div></a><div class="eyebrow">Bajo Aragón · 0,75 l</div><h2><a href="terrae-finca-vasallo/index.html">Terrae Finca Vasallo</a></h2><p>100 % Garnacha. Aus der bestehenden Weinkarte.</p><div class="buy-row"><span class="price" data-price="">14,90 €</span><span class="note">Beispielpreis</span></div><div class="unit" data-unit="">19,87 €/l · zzgl. Versand</div><select aria-label="Format für Terrae Finca Vasallo" data-variant=""><option value="single">0,75 l · 14,90 €</option><option value="case">6 × 0,75 l · 84,90 €</option></select><button class="btn" data-add="terrae-finca-vasallo">In den Warenkorb +</button></article><article class="product-card" data-category="rotwein" data-product="nuestro"><a aria-label="Nuestro" href="nuestro/index.html"><div class="product-art real-product-photo photo-wine"><img alt="Nuestro 8 meses · Originalflasche" data-real-product="nuestro" decoding="async" height="480" loading="eager" src="../../../assets/products/nuestro.webp" width="135"/></div></a><div class="eyebrow">D.O. Ribera del Duero · 0,75 l</div><h2><a href="nuestro/index.html">Nuestro</a></h2><p>100 % Tempranillo. 8 Monate in französischen Eichenfässern.</p><div class="buy-row"><span class="price" data-price="">24,90 €</span><span class="note">Beispielpreis</span></div><div class="unit" data-unit="">33,20 €/l · zzgl. Versand</div><select aria-label="Format für Nuestro" data-variant=""><option value="single">0,75 l · 24,90 €</option><option value="case">6 × 0,75 l · 141,90 €</option></select><button class="btn" data-add="nuestro">In den Warenkorb +</button></article></div><noscript><p class="nojs">Alle Produkte sind sichtbar. Für den Testwarenkorb bitte JavaScript aktivieren.</p></noscript><p class="notice">Designvorschau: alle Preise, Jahrgänge und Kartongrößen sind Beispiele. Produktgrafiken sind keine Fotos der verkauften Packungen. Produktkennzeichnung, Lagerung und Verfügbarkeit müssen vor Freigabe vollständig bestätigt werden.</p></section></main><footer class="footer"><div class="wrap"><div class="footer-top"><div><div class="footer-word" lang="es">Hasta pronto.</div><p class="note">Vineria del Este · Bänschstraße 41 · Berlin</p></div><nav aria-label="Service" class="footer-links"><a href="index.html">Unser Shop</a><a href="../service/index.html#versand">Versand &amp; Abholung</a><a href="../service/index.html#widerruf">Widerruf &amp; Retouren</a><a href="../service/index.html#agb">AGB</a><a href="../service/index.html#datenschutz">Datenschutz</a><a href="../service/index.html#impressum">Impressum</a><a href="https://www.instagram.com/vineria.del.este/" rel="noopener" target="_blank">Instagram ↗</a><a href="../../../verwaltung/index.html">Verwaltung</a></nav></div><div class="footer-bottom"><span>Modell 08 · Collage &amp; Papier · Designvorschau</span><a href="../../../index.html#herkunft">Bildnachweise &amp; Projektstand</a></div></div></footer><div class="toast" hidden="" id="toast" role="status"></div></body></html>
